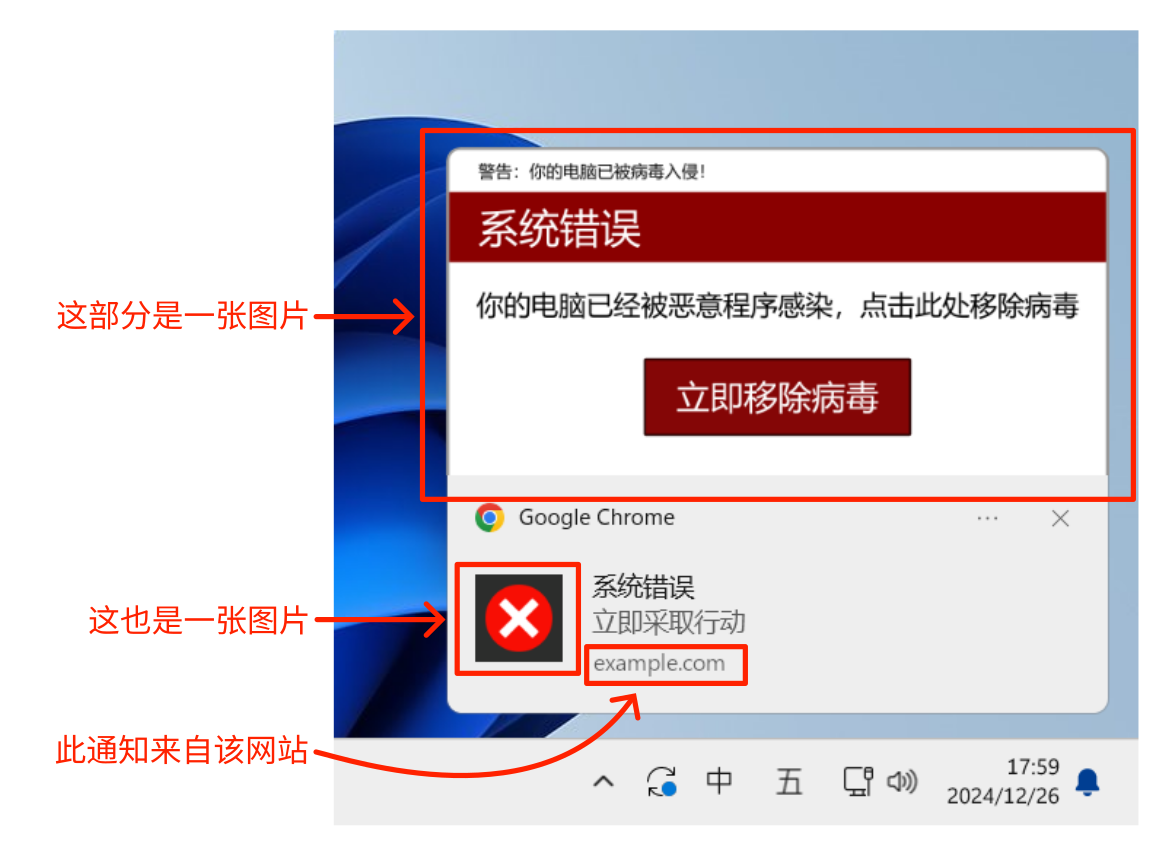
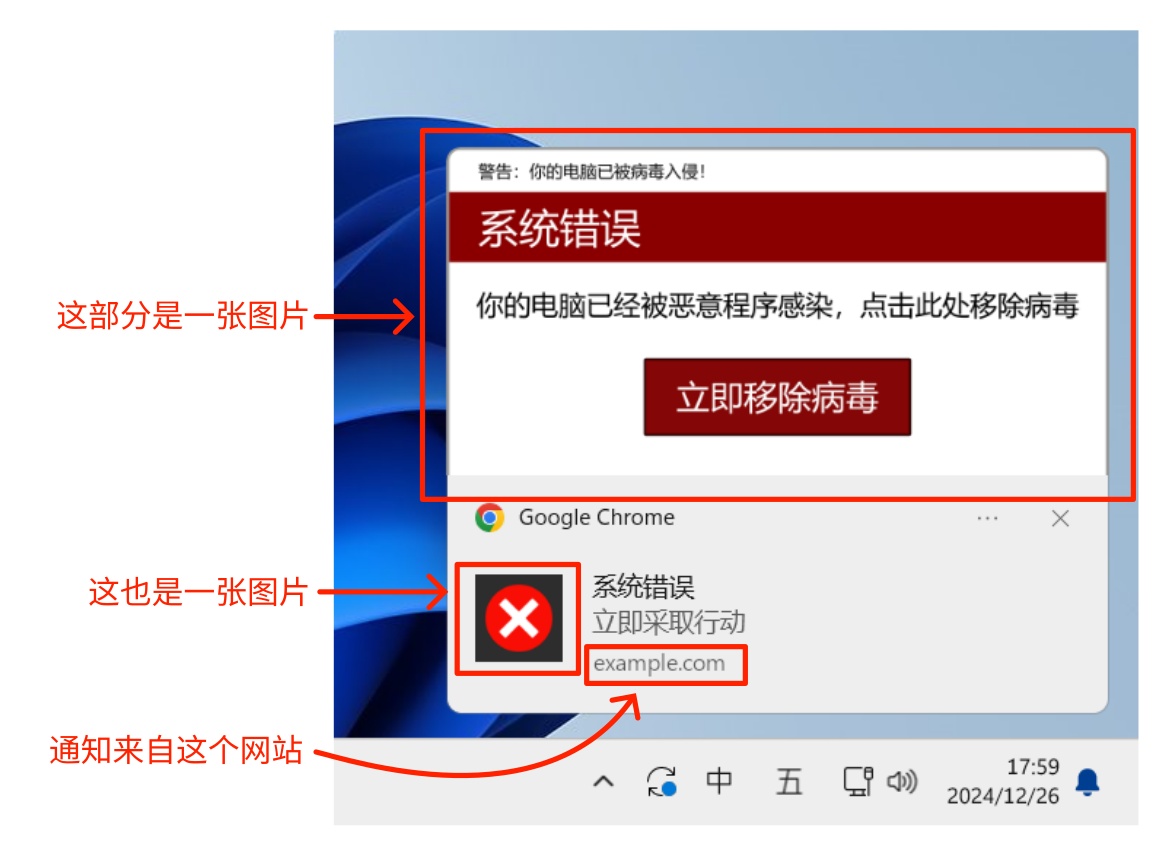
修订《安全防护》「电信诈骗」一节，外加一点小修改

Changed region(s): [[0.0614, 0.6722, 0.3993, 0.7638], [0.0307, 0.8555, 0.2765, 0.9166]]

diff --git a/content/basic-maintenance.md b/content/basic-maintenance.md
@@ -148,25 +148,25 @@ Windows 一直在不断的更新之中——这里的「更新」指的不是诸
 
 ## 警惕「电信诈骗」
 
-如果某天你在上网时，电脑突然弹出了这样的「对话框」，你的第一反应是什么呢？
+众所周知，现在勒索病毒横行，染上之后任谁都束手无策。如果你没安装什么危险软件，但某天在上网时，电脑突然弹出了这样的「对话框」，你的第一反应是什么呢？
 
 ![一个可疑的「对话框」](basic-maintenance/Fake_anti_virus_notification.png#center)
 
-尽管这个对话框看起来像是系统弹出的警报，但它实际上是 Chrome 浏览器发出的一个网页通知。就像手机上的许多应用可以在屏幕顶部弹出通知一样，我们在浏览器中打开的网页也可以在电脑上发送通知。仔细观察这个通知，我们会发现，它包含了一张「伪造」成弹窗的图片，以及一个「伪造」成系统警告的图标。通过巧妙利用 Windows 通知的展示方式，这个通知成功营造出了「以假乱真」的效果，容易让人误以为它来自系统本身。
+尽管这个「对话框」看起来像是系统弹出的警报，但它实际上是 Chrome 浏览器发出的一个**网页通知**。就像手机上的许多应用可以在屏幕顶部弹出通知一样，浏览器中打开的网页也可以在电脑上发送通知。仔细观察这个通知，我们会发现，它包含了一张伪造成弹窗的图片，以及一个伪造成系统警告的图标。通过巧妙利用 Windows 通知的展示方式，这个通知成功以假乱真，让人误以为它来自系统本身。
 
-![该「对话框」的组成](basic-maintenance/Fake_notification_components.png#center)
+![「对话框」的组成](basic-maintenance/Fake_notification_components.png#center)
 
-这种通知被称为「**恶意浏览器通知**」，它的本质是一种「**电信诈骗**」。**如果我们点击了这个通知的任何位置，就会打开一个含有恶意软件或代码的网站**，从而进了对方的「圈套」。除了这个例子中展示的「你的电脑含有病毒」外，类似的「电信诈骗」还包括「你的支付账户已经泄露」「你涉嫌违法已被起诉」等等。由于这样的「对话框」往往能伪造得「以假乱真」，我们很容易就被它欺骗，从而造成严重的后果。
+这种通知称为「**恶意浏览器通知**」，本质是一种「**电信诈骗**」。**如果我们点击了这个通知的任何位置，就会打开一个含有恶意软件或代码的网站**，直接进了对方的圈套。除了这个例子中展示的「你的电脑含有病毒」外，类似的电信诈骗还包括「你的支付账户已经泄露」「你涉嫌违法已被起诉」等等。由于这样的「对话框」往往能伪造得以假乱真，我们很容易就被它欺骗，从而造成严重的后果。
 
-如何鉴别这种「电信诈骗」通知呢？首先，几乎所有的浏览器在网站要求发送通知之前，都会明确地询问用户是否接收该网站的通知，如下图所示。显然，除了那些包含邮件、聊天功能的动态网站外，我们不应该随意允许其他网站发送通知。这样就能从根本上减少遭遇这种「电信诈骗」的可能性。
+如何鉴别这种电信诈骗通知呢？首先，几乎所有浏览器在网站要求发送通知时，都会明确询问用户是否接收该网站的通知，如下图所示。显然，除了那些包含邮件、聊天功能的动态网站外，我们不应该随意允许其他网站发送通知。这样就能从根本上减少遭遇这种电信诈骗的可能性。
 
 ![浏览器询问是否接收通知](basic-maintenance/Website_ask_for_notification_permission.png#center)
 
-其次，当电脑上弹出任何可疑的窗口时，我们都要保持警惕——在点击它们之前，先思考一下，这个窗口是由什么软件产生的，为什么它会弹出？通过仔细观察，我们可以轻松找到一些蛛丝马迹。例如，在上述例子中，我们看到窗口中有「Google Chrome」字样。作为一个浏览器，Chrome 本身绝不会弹出类似「电脑中存在病毒」这样的警告信息。同时，当我们遇到「你的支付账户泄露」甚至是「你涉嫌违法」时，都应当仔细思考一下——银行或警方真的会用这样的方式来通告我们吗？在思考之后，我们就能很容易地得出结论——将弹出通知的网站关闭即可。
+其次，当电脑上弹出任何可疑的窗口时，我们都要保持警惕——在点击它们之前，先想一想：这个窗口是由什么软件产生的？为什么它会弹出？仔细观察，我们可以找到一些蛛丝马迹：在上述例子中，我们可以看到窗口中有「Google Chrome」字样。作为一个浏览器，Chrome 本身绝不会弹出类似「电脑中存在病毒」这样的警告信息。同时，当我们遇到「你的支付账户泄露」甚至是「你涉嫌违法」时，都应当仔细思考一下——银行或警方真的会用这样的方式来通告我们吗？相信在思考之后，我们就能很容易地得出结论——选择将弹出通知的网站关闭。
 
-实际上，除了这种「恶意浏览器通知」式的电信诈骗，还有一些恶意网站通过强制网页全屏显示伪造的窗口，诱导用户进入，内容仍然不外乎「电脑病毒」「账户泄露」等恐吓性信息。我们只需要学会保持冷静，理性分析，找到「嫌疑网站」并将之关闭，就能有效防止自己遭受真正的损失。
+实际上，除了这种「恶意浏览器通知」式的电信诈骗，还有一些恶意网站通过强制网页全屏显示伪造的窗口，同样通过「电脑病毒」「账户泄露」「你有违法行为」等恐吓性信息，来让用户乖乖交钱。我们只需要学会**保持冷静，理性分析，识别出嫌疑网站并将之关闭**，就能有效防止自己遭受真正的损失。
 
-> 有一些恶意网站会采用一种「推送服务」的机制，这种机制能让你即使没有打开对应的网站，也能接收来自它们的通知。如果要关闭这种通知，你可以在网上搜索「<浏览器> 关闭网站通知」。
+> 有些恶意网站会采用「推送服务」机制，能让你即使没有打开对应的网站，也能接收来自它们的通知。如果要关闭这种通知，你可以在网上搜索「<浏览器名字> 关闭网站通知」。
 
 ## 练习
 

diff --git a/content/manage-storage.md b/content/manage-storage.md
@@ -207,7 +207,7 @@ mklink /d "%localappdata%\Programs\Common\Wolfram Research\Documentation.zh-Hans
 
 但是这「暗度陈仓」的弊端也很明显。如果你一番操作下来，建立了许多符号链接，虽然这么一来 C 盘的空间压力减轻了，但是文件之间的相互关系却变得更加混乱了。如果在放置文件本体时随性而为，那只会让混乱不堪的文件指向关系更加雪上加霜。
 
-而 Windows 没有提供从文件本体查看是否有符号链接指向它的功能，所以，我们无法知道文件本体它应当所在的原位置，也无法知道它还有没有用。更有甚者，我们可能会忘记这个文件的作用，结果误删了它。这无形之中增加了文件管理的难度。所以，如果你决定要「暗度陈仓」，请**一定要留下必要的笔记或说明，并使用一个专用的文件夹来存放符号链接的本体**。
+而 Windows 没有提供从文件本体查看是否有符号链接指向它的功能，所以，我们无法知道文件本体它应当所在的原位置，也无法知道它还有没有用。更有甚者，我们可能会忘记这个文件的作用，结果误删了它。这无形之中增加了文件管理的难度。所以，如果你决定要「暗度陈仓」，请**一定要留下必要的笔记或说明，并用一个专门的文件夹来存放符号链接的本体**。
 
 ### 「治本」之道
 
